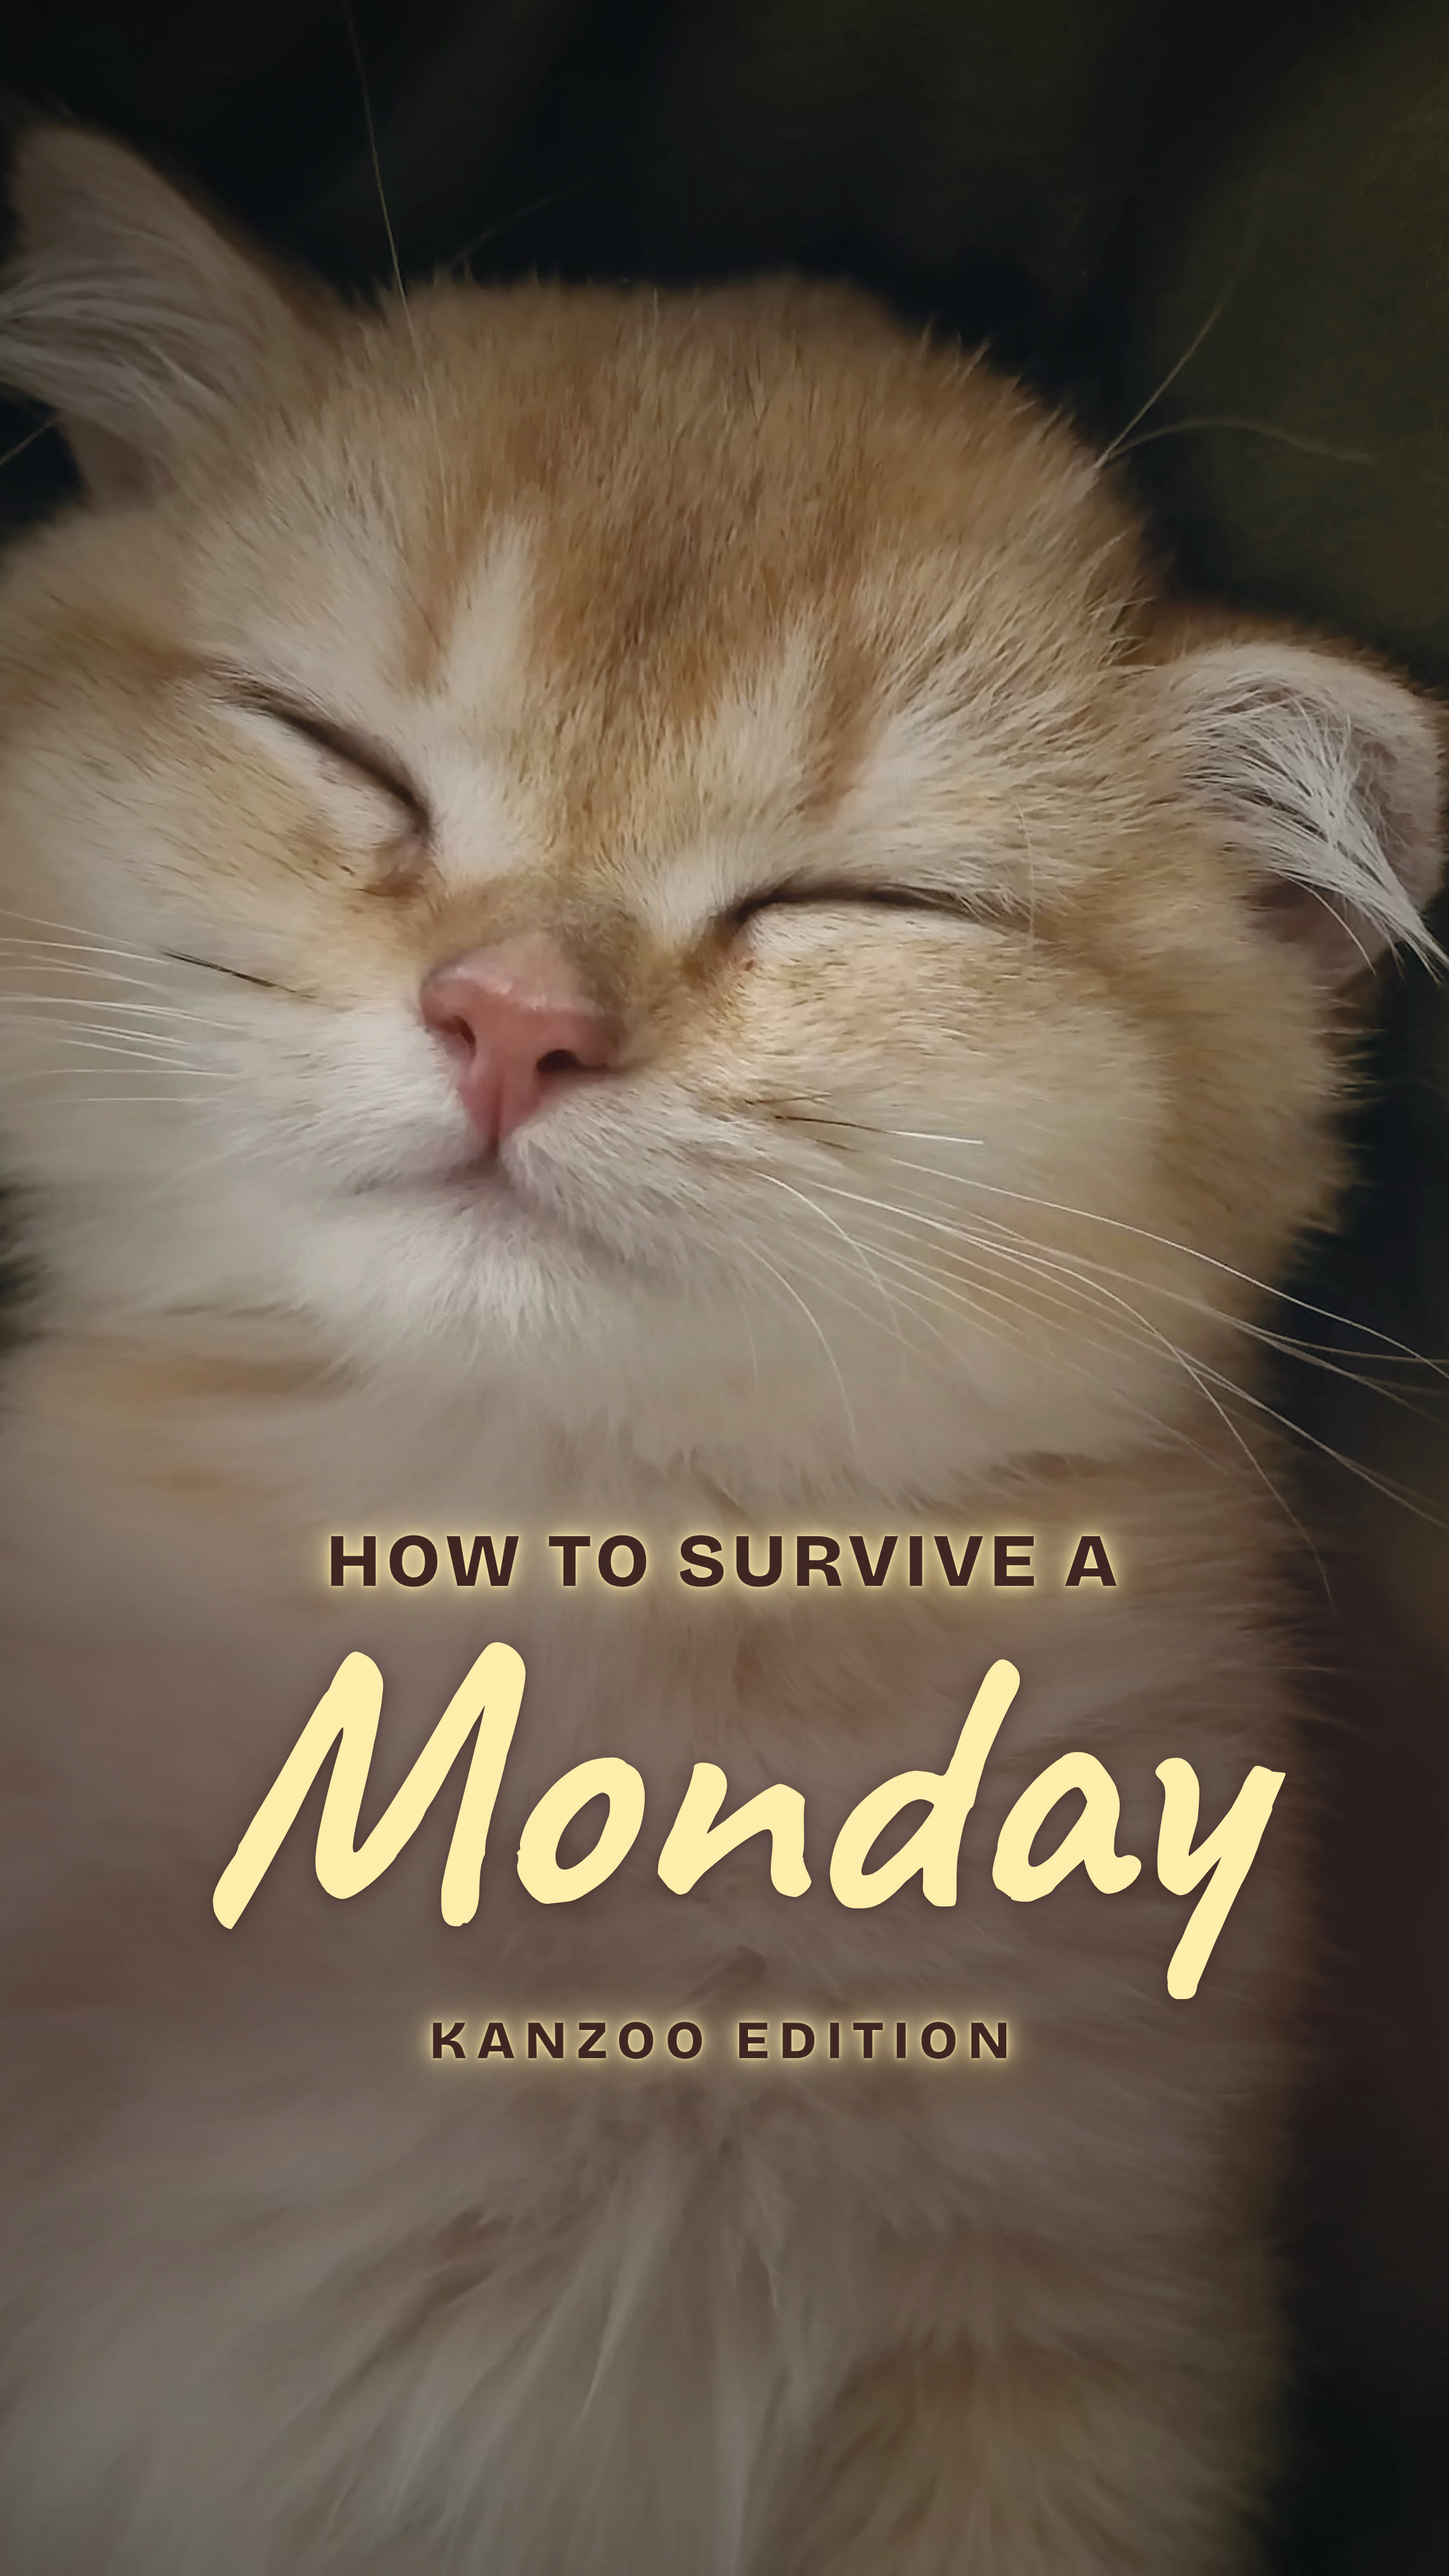
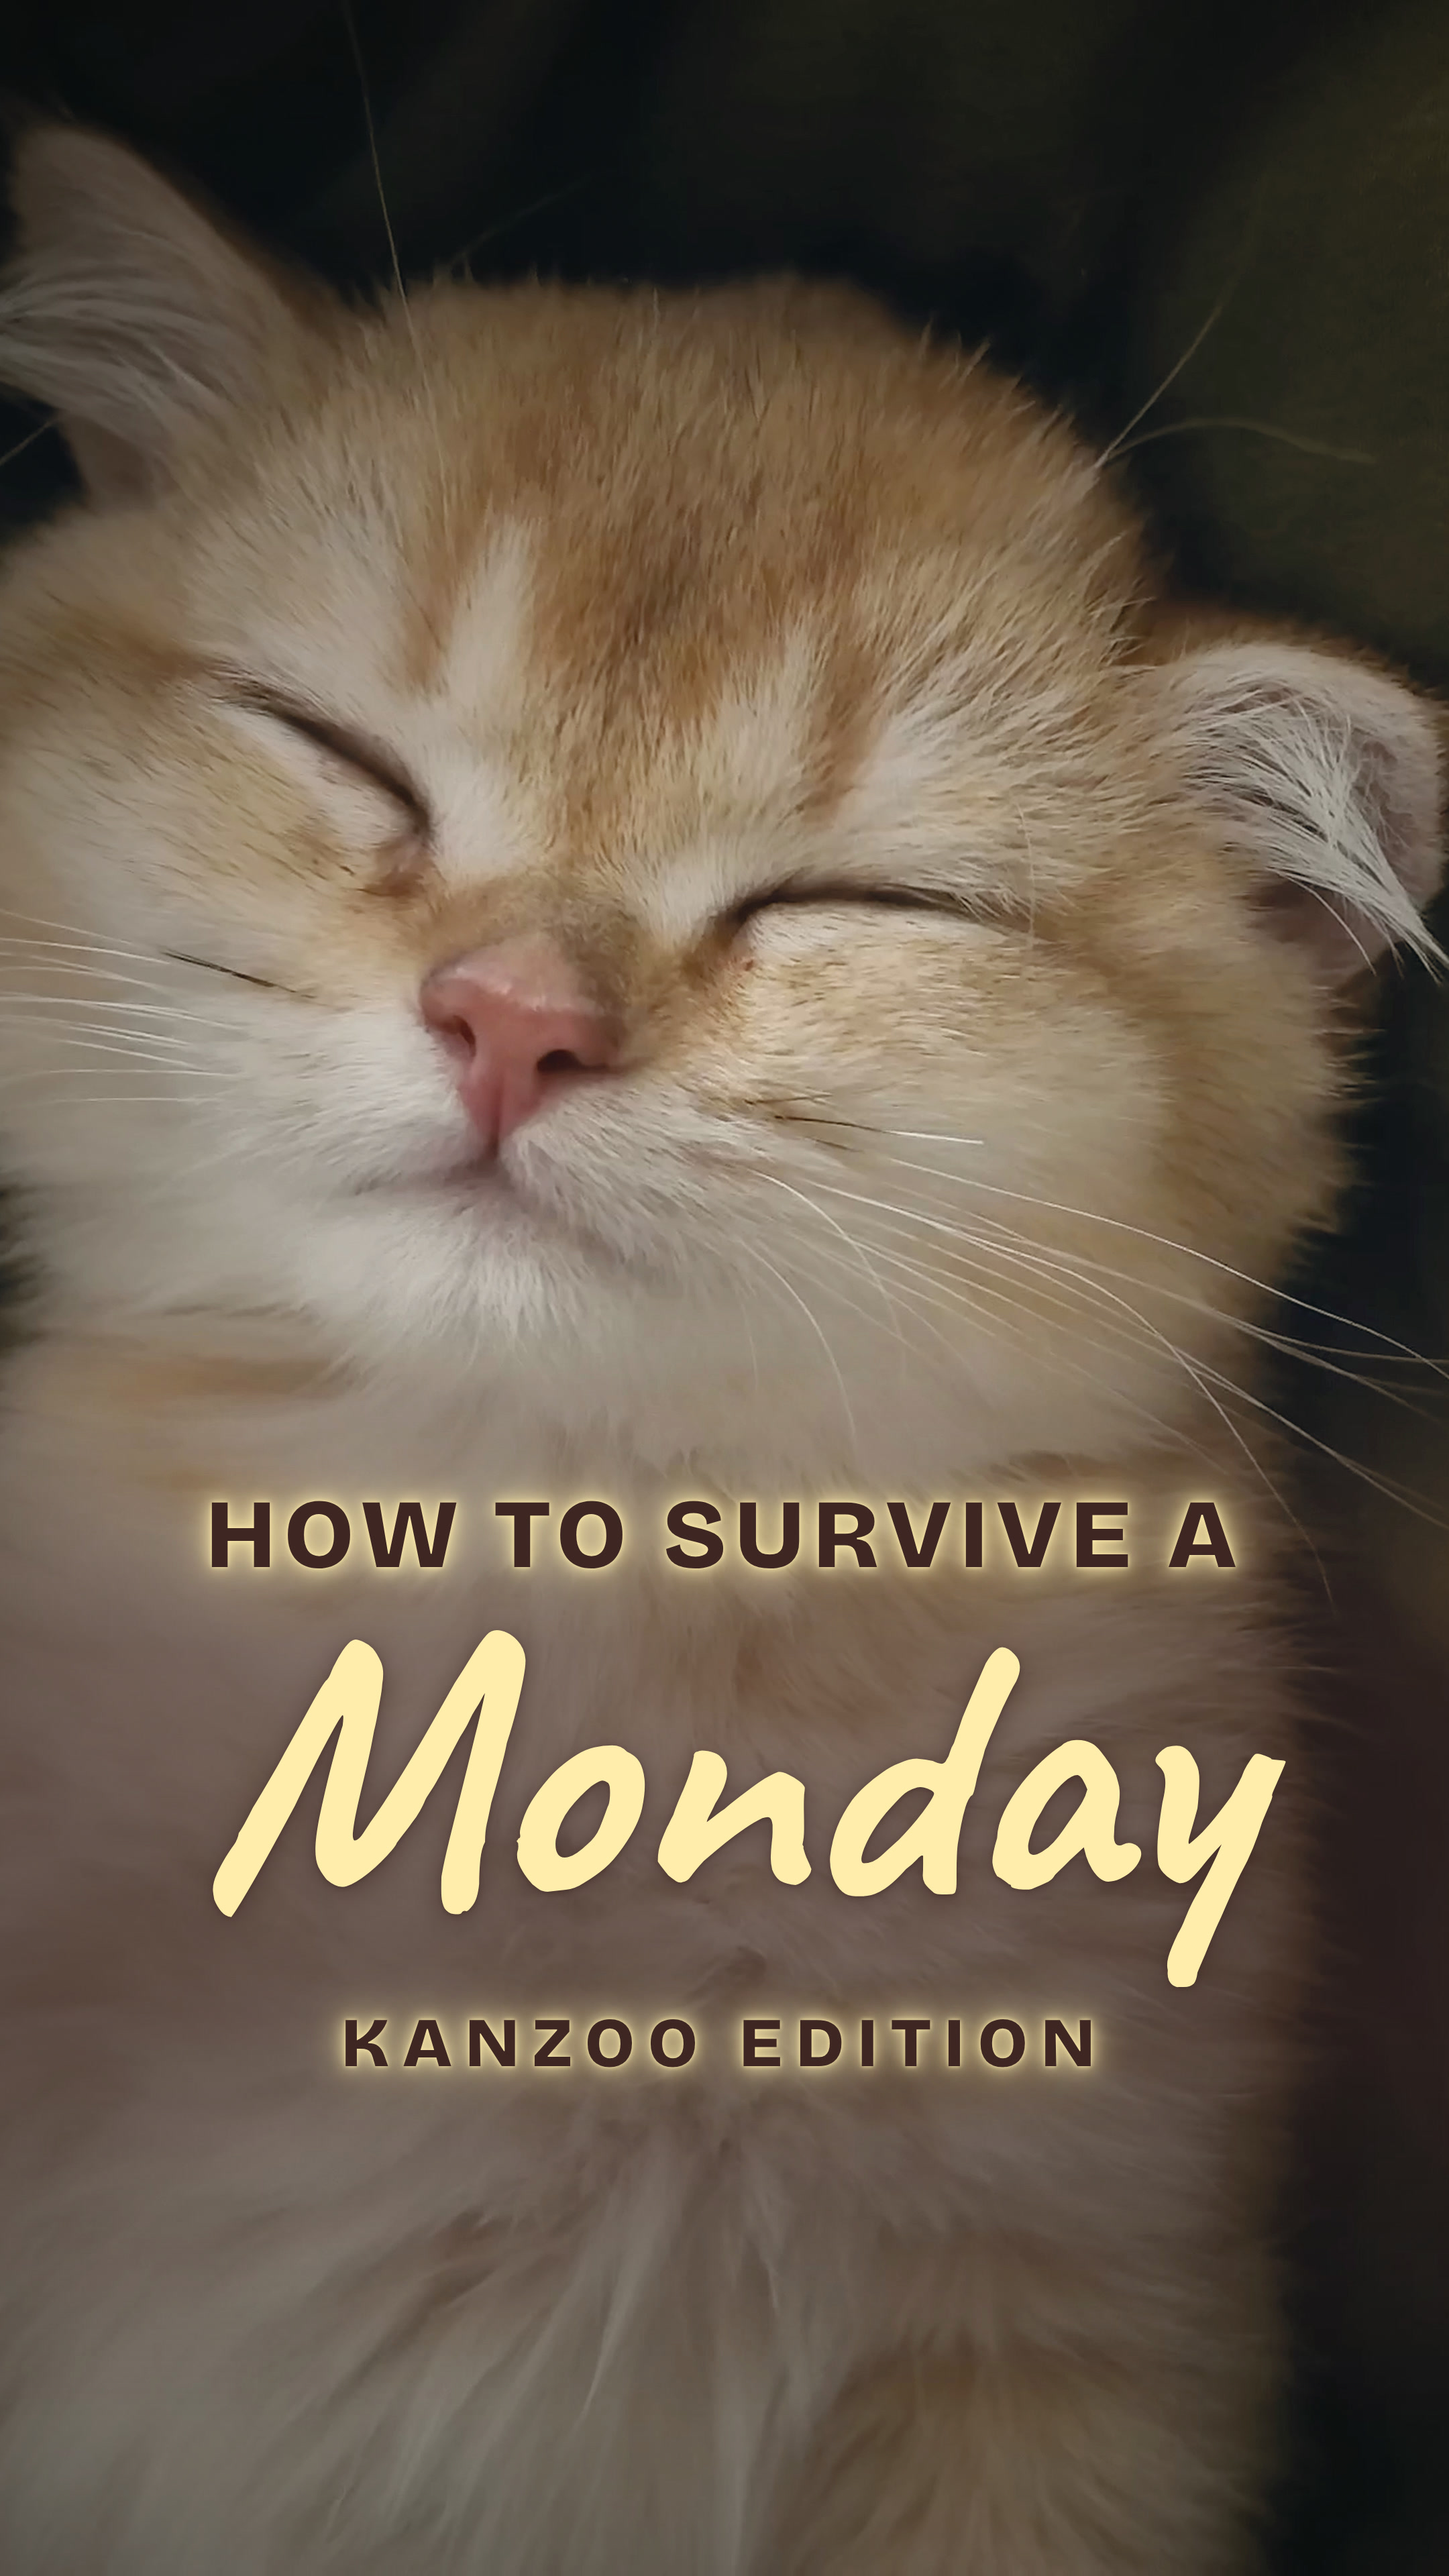
Bigger title labels, punchline pop-in and vertical pops in the reel skill; refresh cover
- kicker/tag labels 30% larger (73px / 52px on the 1080 stage)
- ending lines can be {"text", "punch": true} to snap in on the cut
- large-rotation pops (e.g. vertical text) no longer over-swing on entry
- cover uses the larger labels

Claude-Session: https://claude.ai/code/session_01M4EmJqBGMBqhm4s7gSpj5m

Changed region(s): [[0.1241, 0.5625, 0.8685, 0.75], [0.2171, 0.7812, 0.7755, 0.8125], [0.6824, 0.6562, 0.8685, 0.7812]]

diff --git a/skills/vertical-reel-editor/scripts/gen_composition.py b/skills/vertical-reel-editor/scripts/gen_composition.py
@@ -85,13 +85,18 @@ for sid in order:
     if s.get("lines"):
         sh = shots_in(sid); n = len(s["lines"])
         starts = [sh[min(i * len(sh) // n, len(sh) - 1)]["start"] for i in range(n)]
-        for i, text in enumerate(s["lines"]):
-            st = starts[i] + (0.2 if i == 0 else -0.12)
+        for i, item in enumerate(s["lines"]):
+            # a line is "text" or {"text": ..., "punch": true}; punch = lands on the cut and snaps in (punchlines)
+            text, punch = (item, False) if isinstance(item, str) else (item["text"], item.get("punch", False))
+            st = starts[i] + (0.0 if punch else (0.2 if i == 0 else -0.12))
             en = (starts[i + 1] - 0.02) if i + 1 < n else total
             k = f"end_{sid}_{i}"
             size = 150 if len(text) <= 12 else 116
             clip(k, "end", st, en - st, f'<span class="line" style="font-size:{round(size * style.get("line_scale", 1))}px">{text}</span>')
-            js.append(f'tl.fromTo("#{k} .line", {{ opacity: 0, y: 30 }}, {{ opacity: 1, y: 0, duration: 0.35, ease: "power2.out" }}, {r3(st + 0.02)});')
+            if punch:
+                js.append(f'tl.fromTo("#{k} .line", {{ opacity: 0, scale: 1.5 }}, {{ opacity: 1, scale: 1, duration: 0.14, ease: "back.out(2.6)" }}, {r3(st)});')
+            else:
+                js.append(f'tl.fromTo("#{k} .line", {{ opacity: 0, y: 30 }}, {{ opacity: 1, y: 0, duration: 0.35, ease: "power2.out" }}, {r3(st + 0.02)});')
             if i + 1 < n:
                 js.append(f'tl.to("#{k}", {{ opacity: 0, duration: 0.12 }}, {r3(en - 0.13)});')
 
@@ -100,7 +105,7 @@ for i, p in enumerate(spec.get("pops", [])):
     rot = p.get("rot", (-6 if i % 2 else 6))
     pos = f'left:{p.get("x", 150)}px; top:{p.get("y", 400)}px; font-size:{p.get("size", 96)}px;'
     clip(f"pop{i}", "pop", st, en - st + 0.05, f'<span class="line" style="{pos}">{p["text"]}</span>', 3)
-    js += [f'tl.fromTo("#pop{i} .line", {{ opacity: 0, scale: 0.4, rotation: {rot * 1.6} }}, {{ opacity: 1, scale: 1, rotation: {rot}, duration: 0.18, ease: "back.out(3)" }}, {r3(st)});',
+    js += [f'tl.fromTo("#pop{i} .line", {{ opacity: 0, scale: 0.4, rotation: {rot * 1.6 if abs(rot) < 20 else rot + 12} }}, {{ opacity: 1, scale: 1, rotation: {rot}, duration: 0.18, ease: "back.out(3)" }}, {r3(st)});',
            f'tl.to("#pop{i} .line", {{ opacity: 0, duration: 0.06 }}, {r3(en - 0.06)});']
 
 clip("fadeout", "full fadeout", total - 0.6, 0.6, "", 4)
@@ -125,7 +130,7 @@ html = f'''<!doctype html>
       #footage {{ position: absolute; inset: 0; width: {W}px; height: {H}px; object-fit: cover; }}
       #stage {{ position: absolute; left: 0; top: 0; width: 1080px; height: 1920px; transform: scale({S}); transform-origin: 0 0; }}
       .full {{ position: absolute; inset: 0; width: 1080px; height: 1920px; }}
-      .sz {{ display: block; }} .kick {{ font-size: 56px; }} .tagw {{ font-size: 40px; margin-top: 46px; }} .lab {{ font-size: 50px; }}
+      .sz {{ display: block; }} .kick {{ font-size: 73px; }} .tagw {{ font-size: 52px; margin-top: 50px; }} .lab {{ font-size: 50px; }}
       .label {{ display: inline-block; font-size: 1em; {style['label_css']} }}
       .tag {{ letter-spacing: .16em; }}
       .line {{ {style['line_css']} }}
